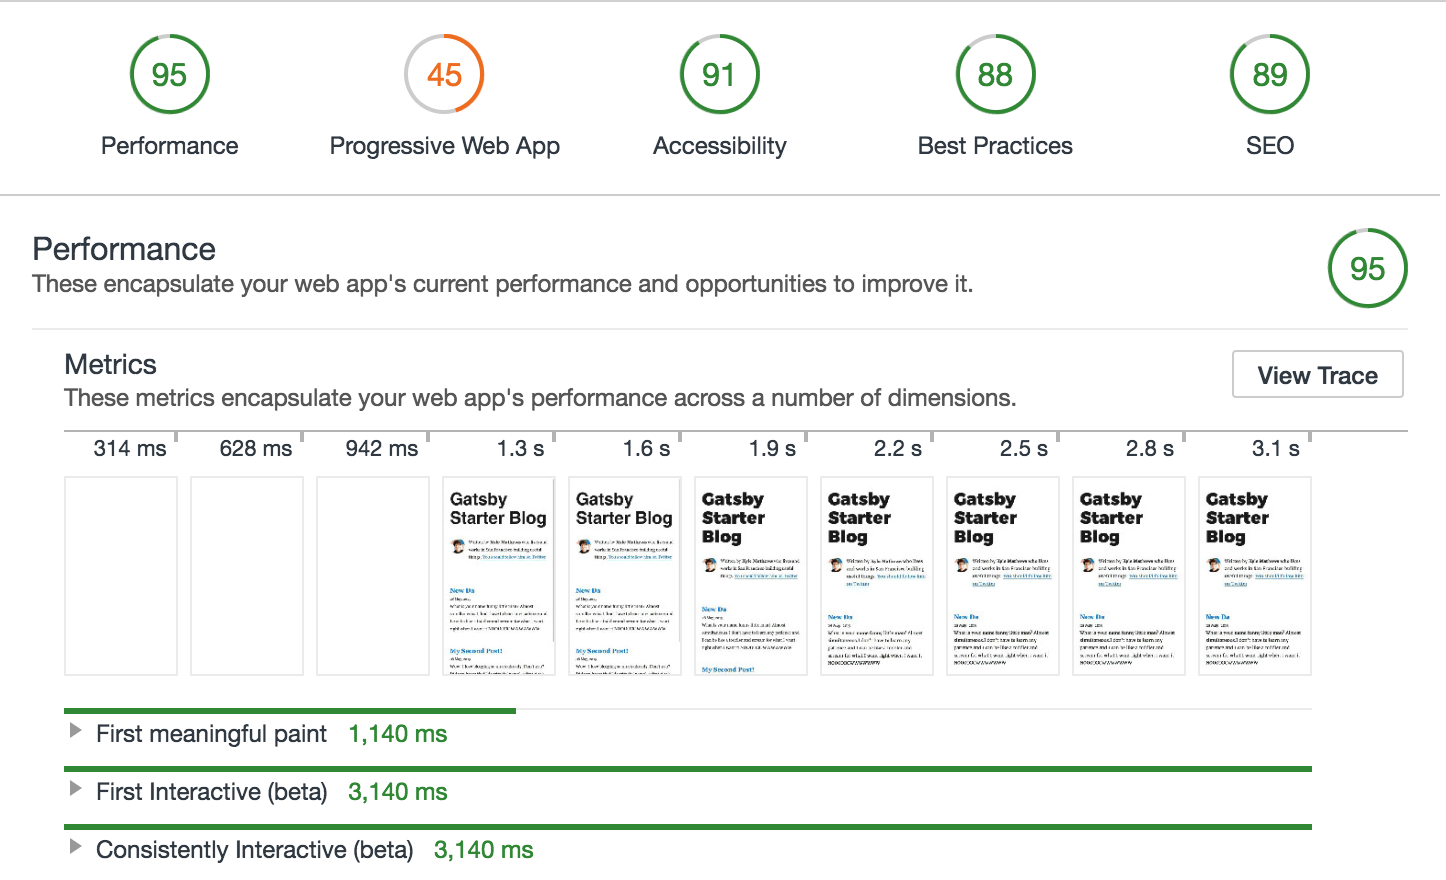
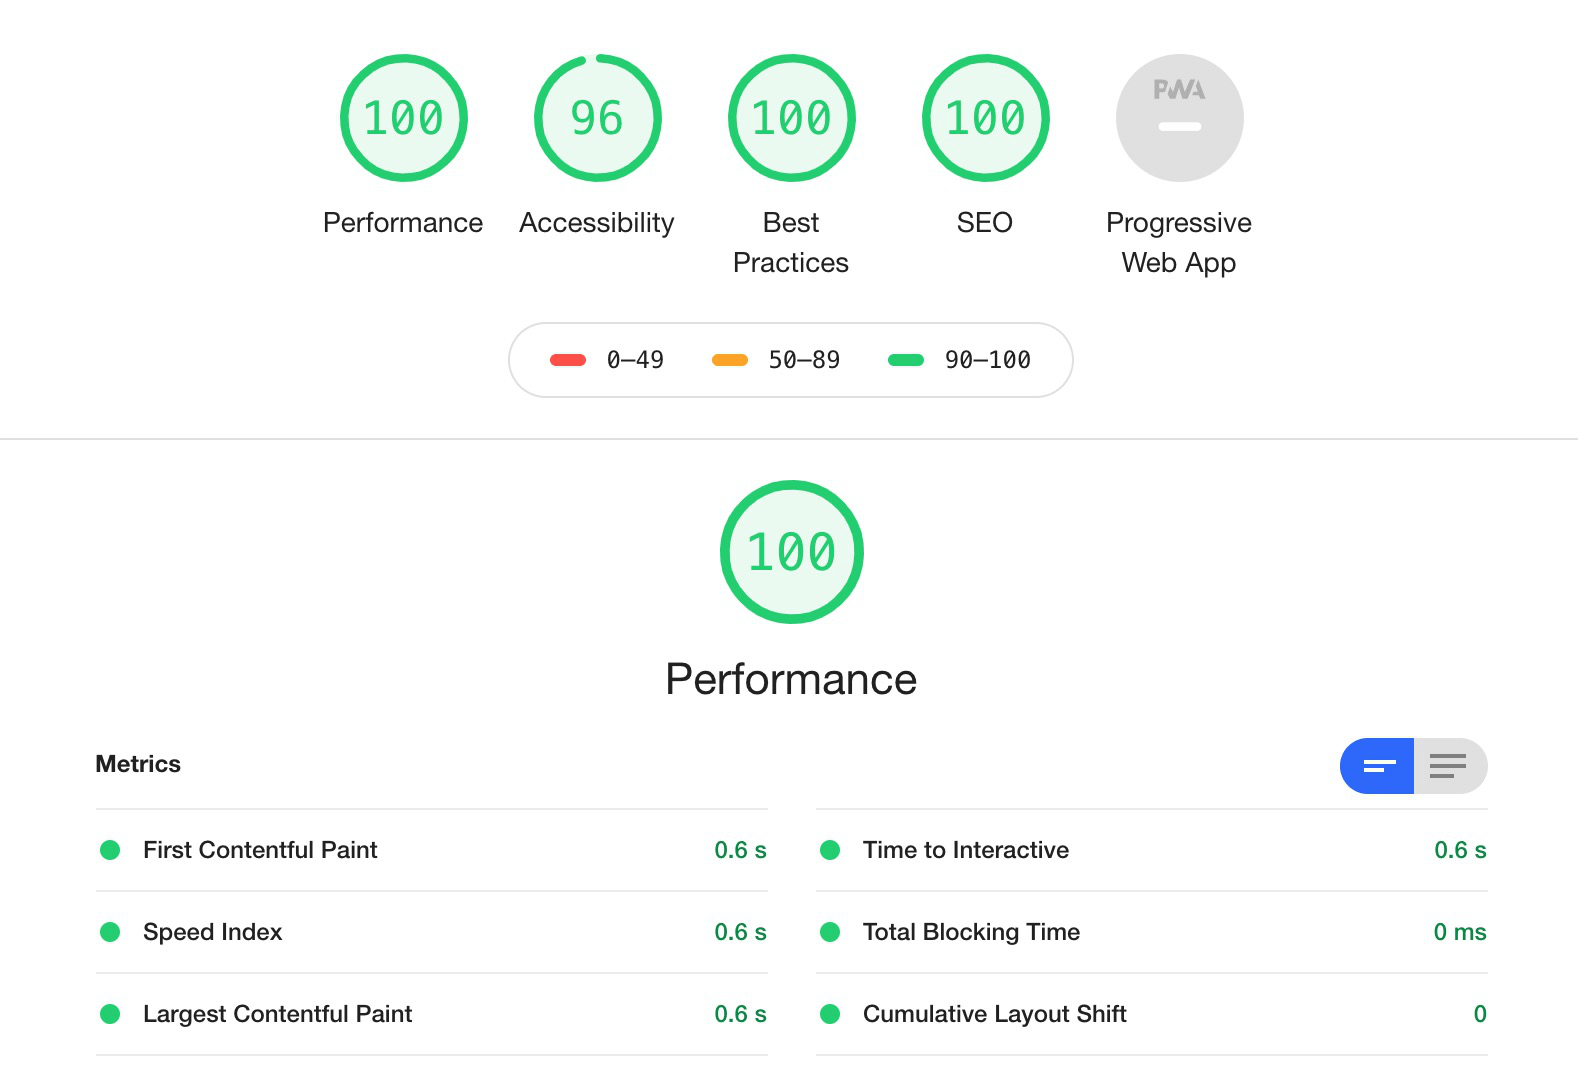
Docs - Lighthouse audits  (#24783)
* updating content and screenshots

* Fix linting

diff --git a/docs/docs/audit-with-lighthouse.md b/docs/docs/audit-with-lighthouse.md
@@ -32,13 +32,13 @@ Once this starts, you can now view your site at `http://localhost:9000`.
 
 Now run your first Lighthouse test.
 
-1. Open the site in Chrome (if you didn't already do so) and then open up the Chrome DevTools.
+1. Open the site in Chrome (if you didn't already do so) and then open up the Chrome DevTools. (Lighthouse is also available for Firefox from [Firefox Add-ons](https://addons.mozilla.org/en-GB/firefox/addon/google-lighthouse/). )
 
-2. Click on the "Audits" tab where you'll see a screen that looks like:
+2. Click on the "Audits" tab, this may be a "Lighthouse" tab depending on which version you are using. You should see a screen that looks like:
 
 ![Lighthouse audit start](./images/lighthouse-audit.png)
 
-3. Click "Perform an audit..." (All available audit types should be selected by default). Then click "Run audit". (It'll then take a minute or so to run the audit). Once the audit is complete, you should see results that look like this:
+3. Choose whether to audit on Mobile or Desktop and then click "Generate Report". You will also see a list of all available audits that you can choose to run for this report. Once the audit starts it'll take around a minute depending on the site speed and which audits were selected. When that is complete, you should see results that look like this:
 
 ![Lighthouse audit results](./images/lighthouse-audit-results.png)
 
